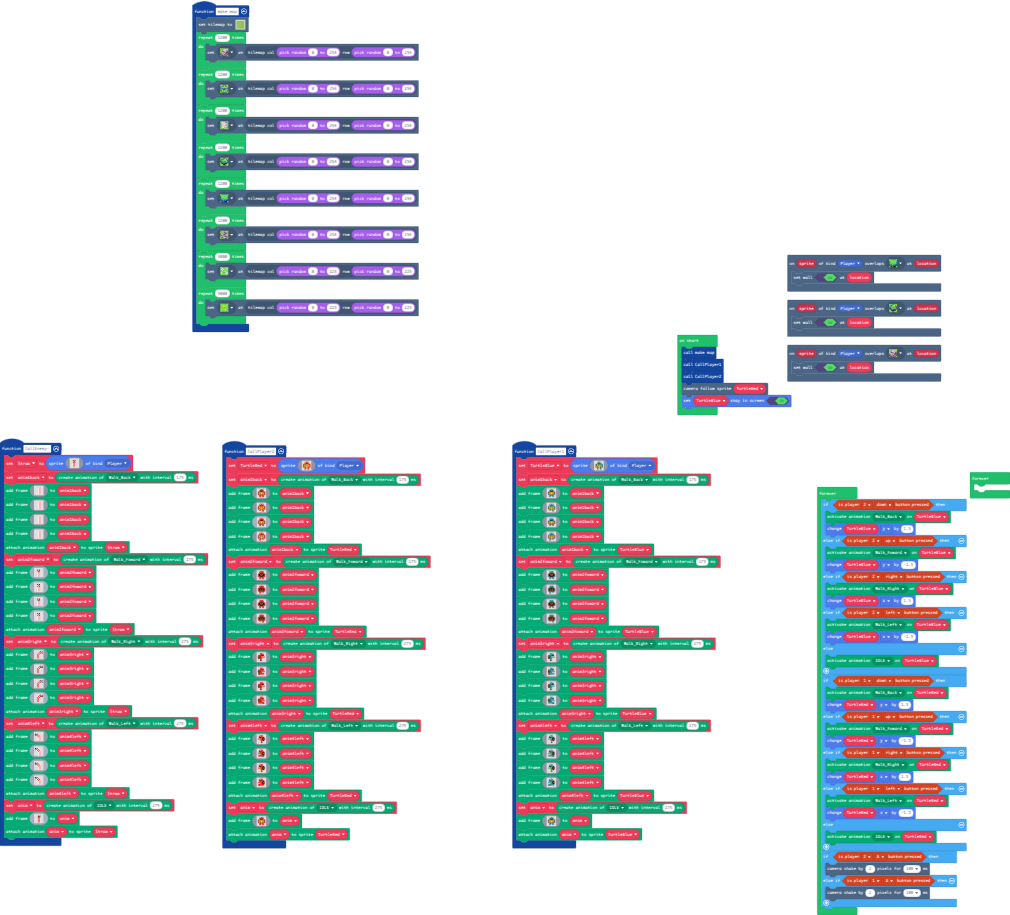
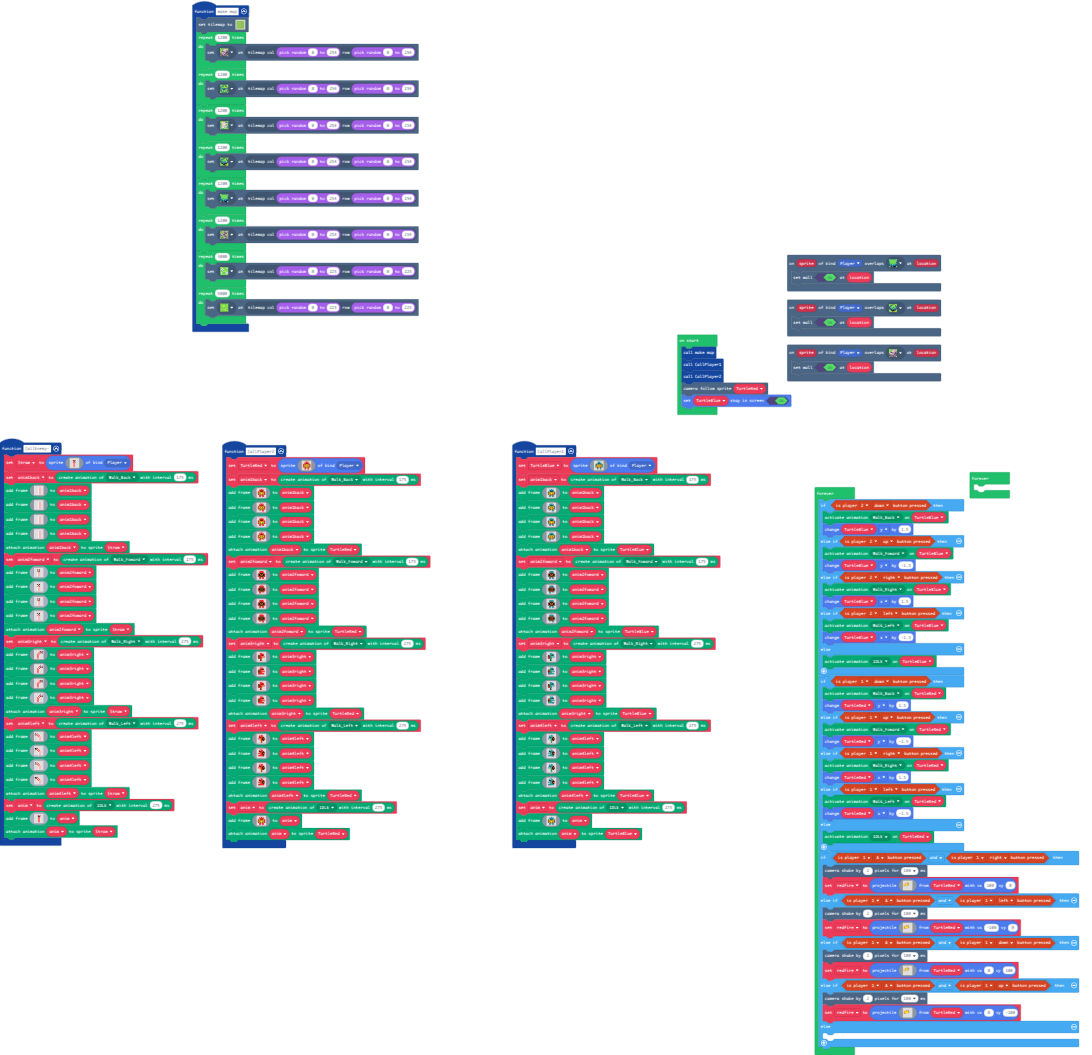
Update pxt.json, main.blocks, main.ts

diff --git a/main.ts b/main.ts
@@ -6,7 +6,9 @@ enum ActionKind {
     Walk_Foward,
     Walk_Back,
     Walk_Left,
-    IDLE
+    IDLE,
+    redFIRE,
+    blueFIRE
 }
 function CallEnemy () {
     Straw = sprites.create(img`
@@ -899,6 +901,7 @@ function CallPlayer2 () {
         `)
     animation.attachAnimation(TurtleRed, anim)
 }
+let redfire: Sprite = null
 let anim: animation.Animation = null
 let anim4left: animation.Animation = null
 let anim3right: animation.Animation = null
@@ -946,9 +949,87 @@ forever(function () {
     } else {
         animation.setAction(TurtleRed, ActionKind.IDLE)
     }
-    if (controller.player2.isPressed(ControllerButton.A)) {
+    if (controller.player1.isPressed(ControllerButton.A) && controller.player1.isPressed(ControllerButton.Right)) {
         scene.cameraShake(2, 100)
-    } else if (controller.player1.isPressed(ControllerButton.A)) {
+        redfire = sprites.createProjectileFromSprite(img`
+            . . . . . . . . . . . . . . . . 
+            . . . . . . . . . . . . . . . . 
+            . . . . . . . 4 4 . . . . . . . 
+            . . . . . 4 4 d 7 4 . . . . . . 
+            . . . 4 4 d d 4 4 4 4 . . . . . 
+            . 4 4 5 7 4 4 5 d 7 4 . . . . . 
+            4 5 5 7 d 5 5 d 7 7 4 . . . . . 
+            7 4 4 5 5 5 5 5 7 4 4 . . . . . 
+            7 d 5 d 7 7 4 4 4 . . . . . . . 
+            4 4 4 4 7 . . . . . . . . . . . 
+            . . . . . . . . . . . . . . . . 
+            . . . . . . . . . . . . . . . . 
+            . . . . . . . . . . . . . . . . 
+            . . . . . . . . . . . . . . . . 
+            . . . . . . . . . . . . . . . . 
+            . . . . . . . . . . . . . . . . 
+            `, TurtleRed, 100, 0)
+    } else if (controller.player1.isPressed(ControllerButton.A) && controller.player1.isPressed(ControllerButton.Left)) {
         scene.cameraShake(2, 100)
+        redfire = sprites.createProjectileFromSprite(img`
+            . . . . . . . . . . . . . . . . 
+            . . . . . . . . . . . . . . . . 
+            . . . . . . . 4 4 . . . . . . . 
+            . . . . . 4 4 d 7 4 . . . . . . 
+            . . . 4 4 d d 4 4 4 4 . . . . . 
+            . 4 4 5 7 4 4 5 d 7 4 . . . . . 
+            4 5 5 7 d 5 5 d 7 7 4 . . . . . 
+            7 4 4 5 5 5 5 5 7 4 4 . . . . . 
+            7 d 5 d 7 7 4 4 4 . . . . . . . 
+            4 4 4 4 7 . . . . . . . . . . . 
+            . . . . . . . . . . . . . . . . 
+            . . . . . . . . . . . . . . . . 
+            . . . . . . . . . . . . . . . . 
+            . . . . . . . . . . . . . . . . 
+            . . . . . . . . . . . . . . . . 
+            . . . . . . . . . . . . . . . . 
+            `, TurtleRed, -100, 0)
+    } else if (controller.player1.isPressed(ControllerButton.A) && controller.player1.isPressed(ControllerButton.Down)) {
+        scene.cameraShake(2, 100)
+        redfire = sprites.createProjectileFromSprite(img`
+            . . . . . . . . . . . . . . . . 
+            . . . . . . . . . . . . . . . . 
+            . . . . . . . 4 4 . . . . . . . 
+            . . . . . 4 4 d 7 4 . . . . . . 
+            . . . 4 4 d d 4 4 4 4 . . . . . 
+            . 4 4 5 7 4 4 5 d 7 4 . . . . . 
+            4 5 5 7 d 5 5 d 7 7 4 . . . . . 
+            7 4 4 5 5 5 5 5 7 4 4 . . . . . 
+            7 d 5 d 7 7 4 4 4 . . . . . . . 
+            4 4 4 4 7 . . . . . . . . . . . 
+            . . . . . . . . . . . . . . . . 
+            . . . . . . . . . . . . . . . . 
+            . . . . . . . . . . . . . . . . 
+            . . . . . . . . . . . . . . . . 
+            . . . . . . . . . . . . . . . . 
+            . . . . . . . . . . . . . . . . 
+            `, TurtleRed, 0, 100)
+    } else if (controller.player1.isPressed(ControllerButton.A) && controller.player1.isPressed(ControllerButton.Up)) {
+        scene.cameraShake(2, 100)
+        redfire = sprites.createProjectileFromSprite(img`
+            . . . . . . . . . . . . . . . . 
+            . . . . . . . . . . . . . . . . 
+            . . . . . . . 4 4 . . . . . . . 
+            . . . . . 4 4 d 7 4 . . . . . . 
+            . . . 4 4 d d 4 4 4 4 . . . . . 
+            . 4 4 5 7 4 4 5 d 7 4 . . . . . 
+            4 5 5 7 d 5 5 d 7 7 4 . . . . . 
+            7 4 4 5 5 5 5 5 7 4 4 . . . . . 
+            7 d 5 d 7 7 4 4 4 . . . . . . . 
+            4 4 4 4 7 . . . . . . . . . . . 
+            . . . . . . . . . . . . . . . . 
+            . . . . . . . . . . . . . . . . 
+            . . . . . . . . . . . . . . . . 
+            . . . . . . . . . . . . . . . . 
+            . . . . . . . . . . . . . . . . 
+            . . . . . . . . . . . . . . . . 
+            `, TurtleRed, 0, -100)
+    } else {
+    	
     }
 })
